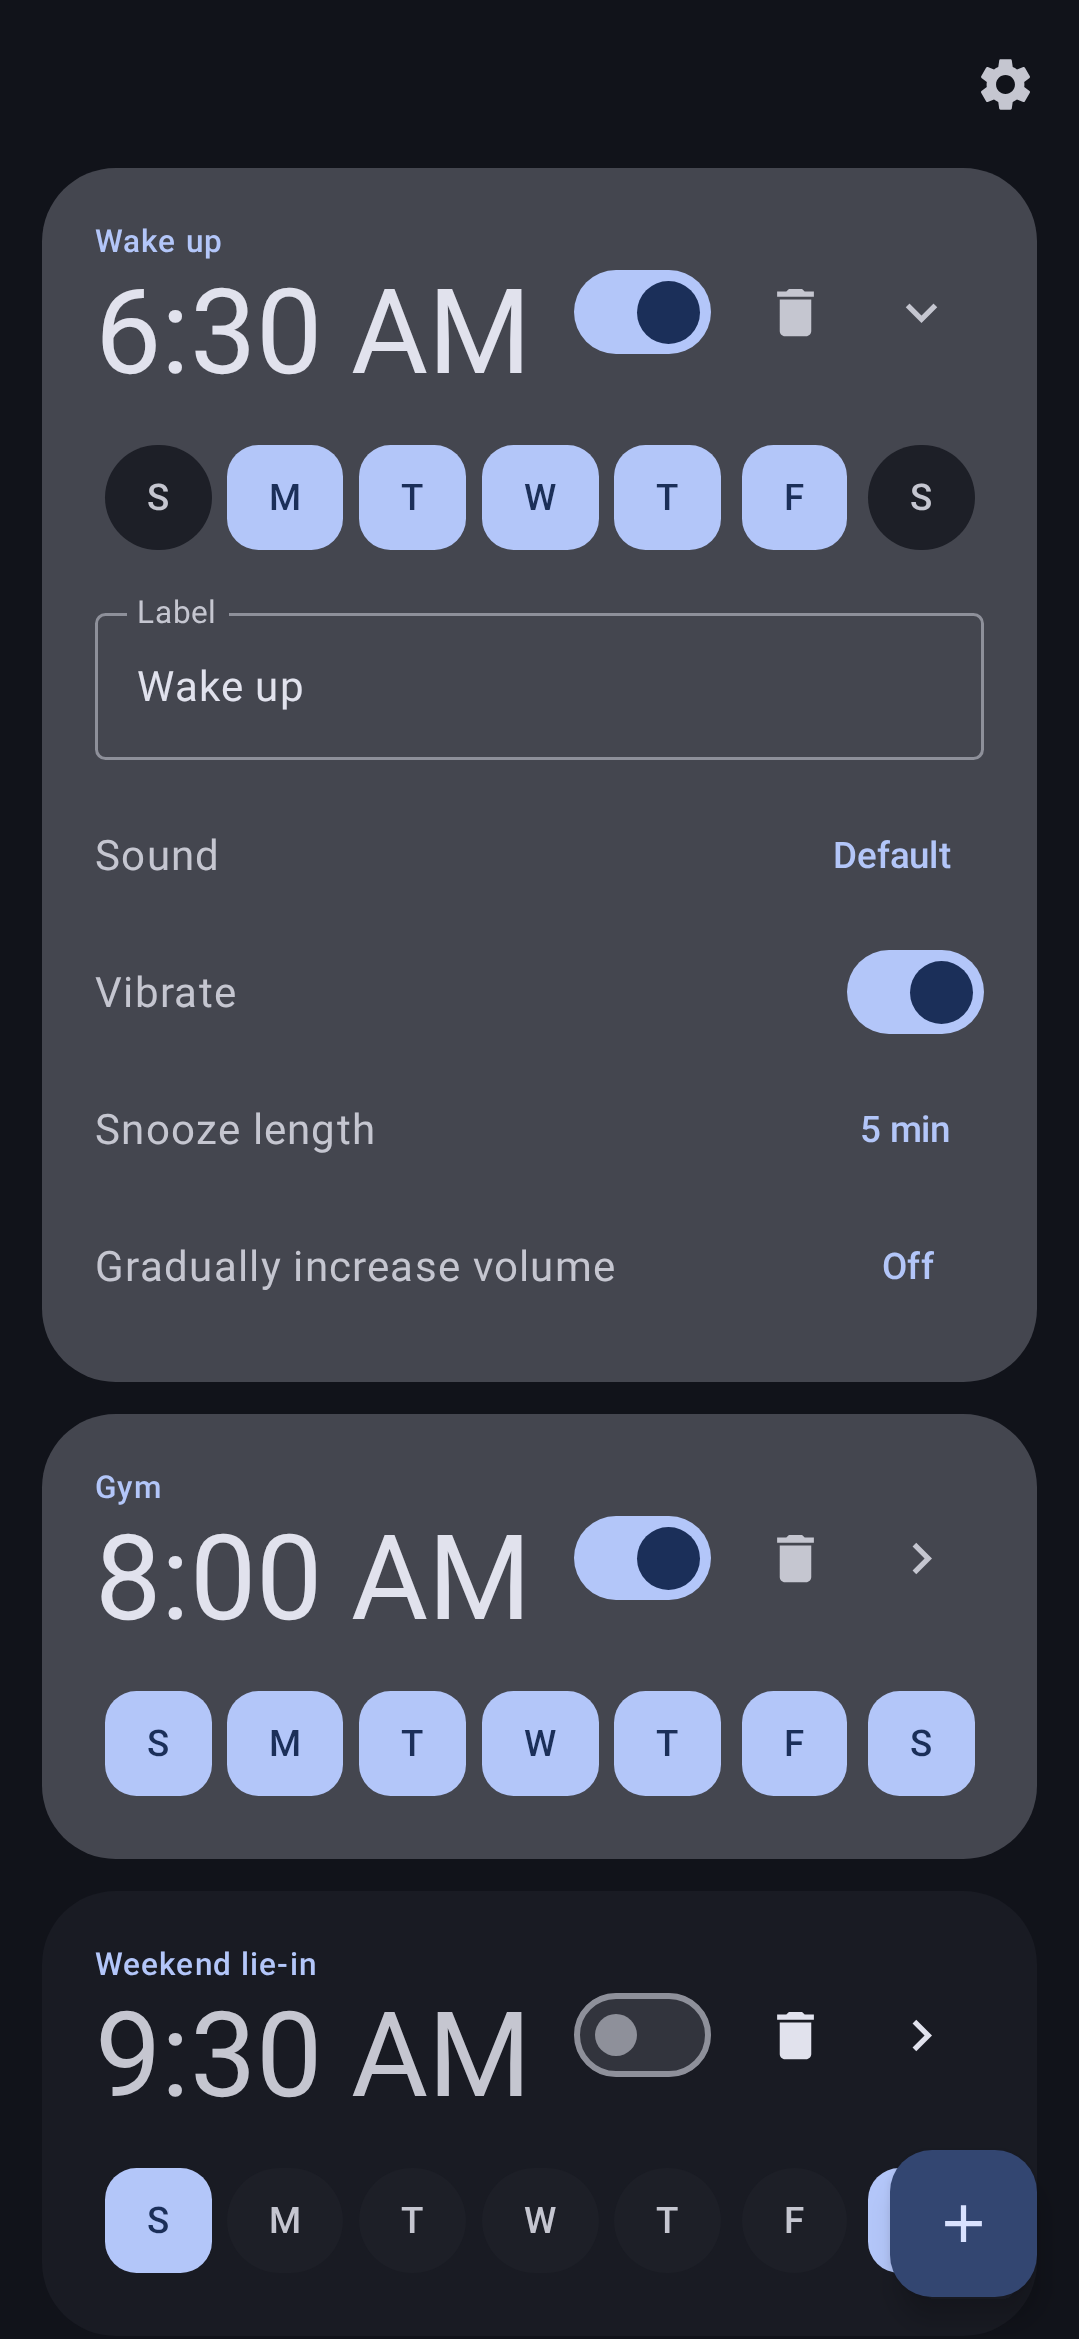
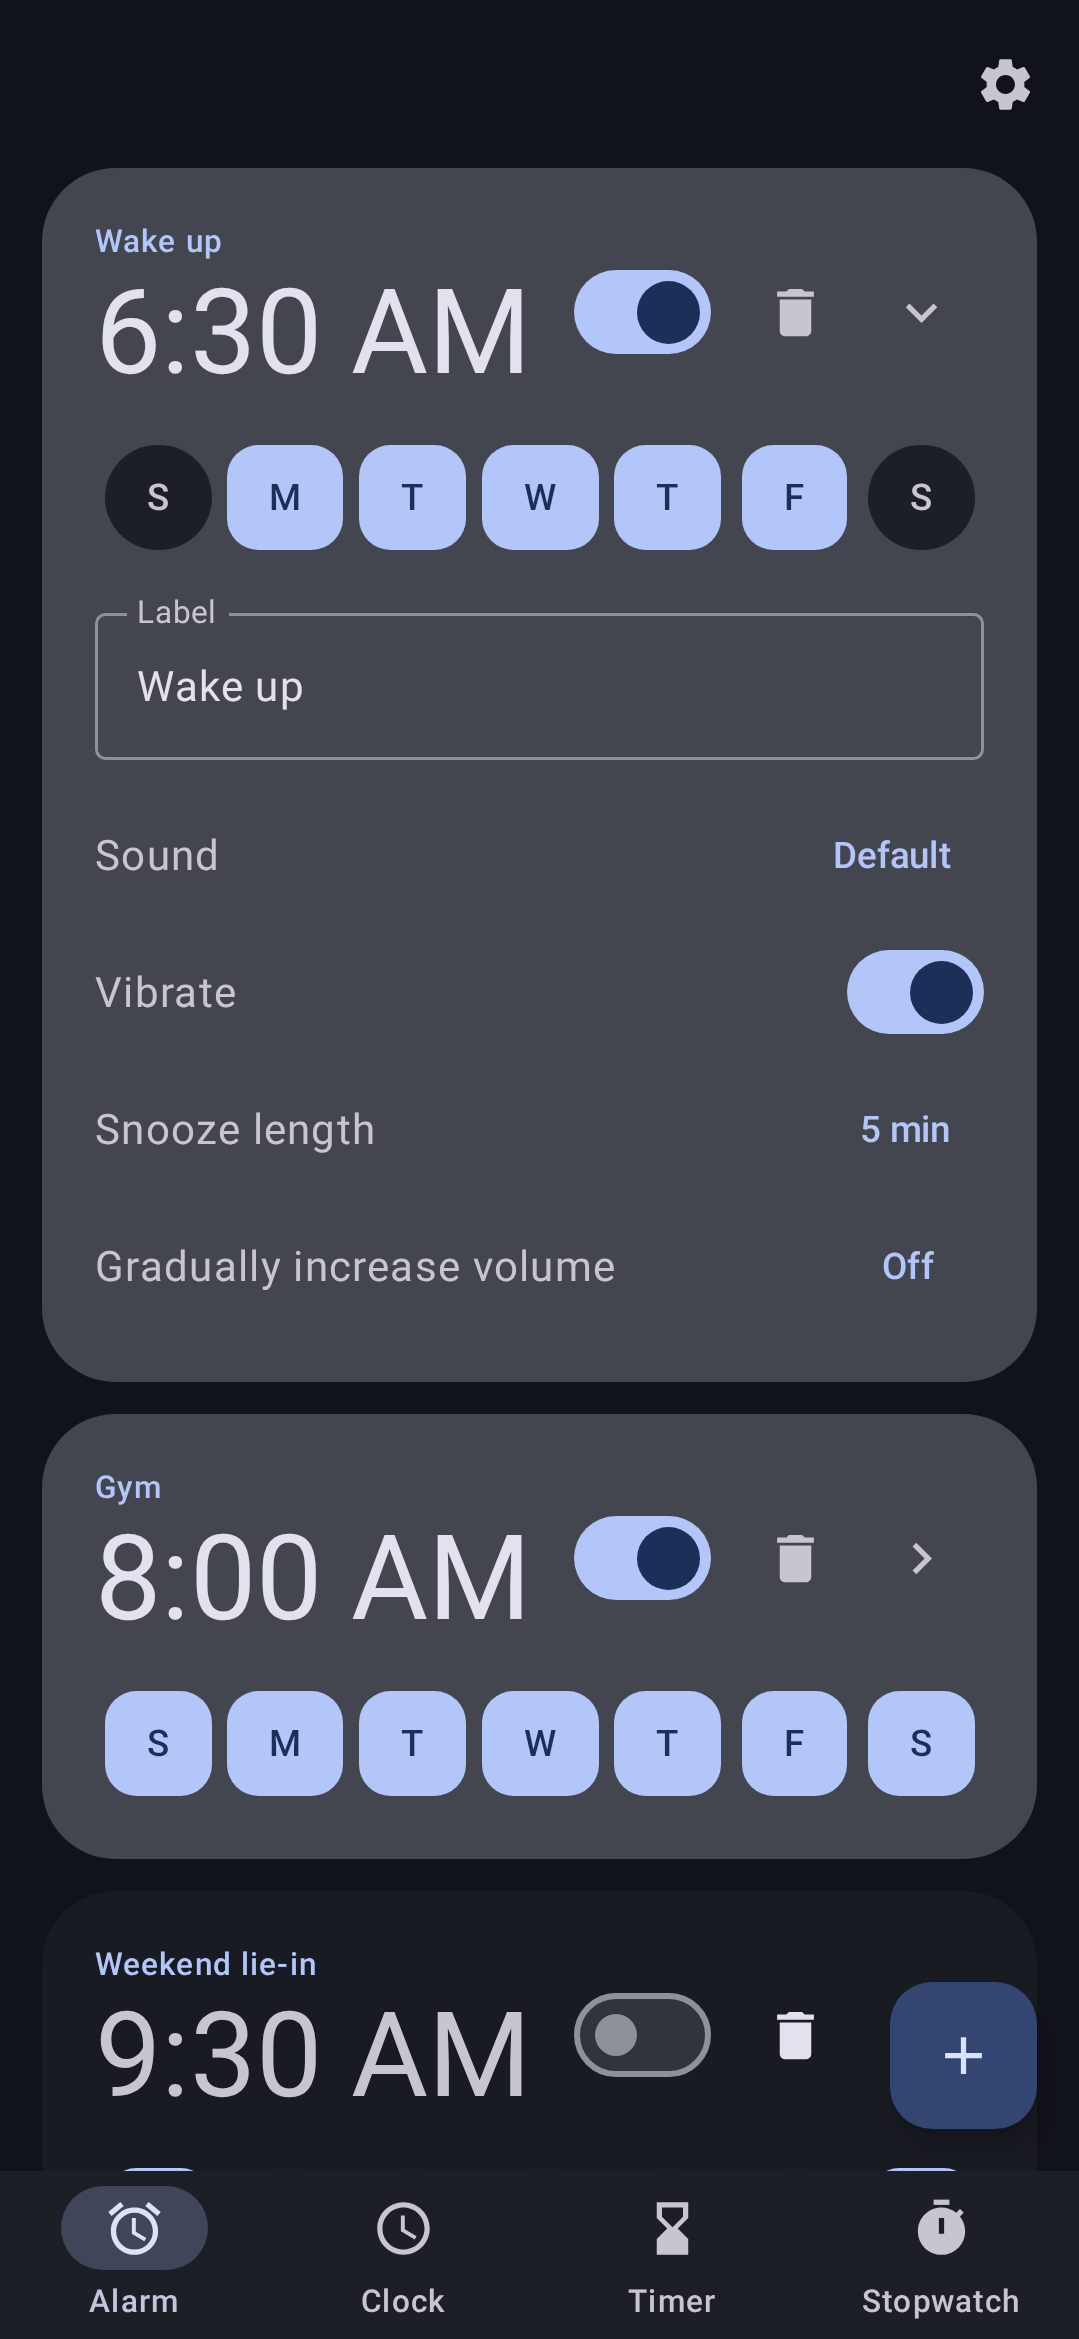
clock: preview tab chrome in store screenshots

diff --git a/clock/src/screenshotTest/kotlin/com/vayunmathur/clock/ui/MetadataPreviews.kt b/clock/src/screenshotTest/kotlin/com/vayunmathur/clock/ui/MetadataPreviews.kt
@@ -1,5 +1,6 @@
 package com.vayunmathur.clock.ui
 
+import androidx.compose.foundation.pager.rememberPagerState
 import androidx.compose.runtime.Composable
 import androidx.compose.runtime.CompositionLocalProvider
 import androidx.compose.runtime.remember
@@ -16,6 +17,13 @@ import com.vayunmathur.clock.platform.TimerActions
 import com.vayunmathur.clock.platform.TimerUiState
 import com.vayunmathur.clock.platform.WorldClock
 import com.vayunmathur.library.ui.DynamicTheme
+import com.vayunmathur.library.ui.IconAccessTime
+import com.vayunmathur.library.ui.IconAlarm
+import com.vayunmathur.library.ui.IconHourglass
+import com.vayunmathur.library.ui.IconTimer
+import com.vayunmathur.library.ui.PagerTab
+import com.vayunmathur.library.ui.TabStyle
+import com.vayunmathur.library.ui.TabbedPagerScaffold
 import com.vayunmathur.library.util.LocalNavResultRegistry
 import com.vayunmathur.library.util.NavResultRegistry
 import com.vayunmathur.library.util.rememberNavBackStack
@@ -50,6 +58,10 @@ private val MORNING = Instant.parse("2026-02-13T17:41:09Z")
  * previews must be members of a class rather than top-level functions, and listing order
  * comes from the function names — `Preview1…`, `Preview2…`. All three failure modes
  * surface as the same unhelpful "did not discover any tests".
+ *
+ * Previews render through [ChromePreview] — the real [TabbedPagerScaffold] with the
+ * app's real tabs — not bare screens, so the bottom bar users see is in the shot.
+ * Only the selected tab is literal.
  */
 class MetadataPreviews {
 
@@ -57,82 +69,119 @@ class MetadataPreviews {
     @Preview(name = "1-alarm", device = PHONE, group = "phone", showSystemUi = true)
     @Composable
     fun Preview1Alarm() {
-        DynamicTheme(darkTheme = true) {
-            // An alarm card receives its time-picker result through ResultEffect, which
-            // reads LocalNavResultRegistry. Outside MainNavigation nothing provides it and
-            // composition fails, so hand it a throwaway one — no preview sends a result.
-            CompositionLocalProvider(LocalNavResultRegistry provides remember { NavResultRegistry() }) {
-                AlarmScreen(
-                    backStack = rememberNavBackStack<Route>(Route.Alarm),
-                    state = AlarmUiState(
-                        alarms = listOf(
-                            Alarm(time = LocalTime(6, 30), name = "Wake up", enabled = true, days = WEEKDAYS, id = 1),
-                            Alarm(time = LocalTime(8, 0), name = "Gym", enabled = true, days = EVERY_DAY, id = 2),
-                            Alarm(time = LocalTime(9, 30), name = "Weekend lie-in", enabled = false, days = WEEKEND, id = 3),
-                        ),
-                    ),
-                    actions = AlarmActions.Noop,
-                    initialExpandedAlarmId = 1L,
-                )
-            }
-        }
+        ChromePreview(selectedTab = 0)
     }
 
     @PreviewTest
     @Preview(name = "2-clock", device = PHONE, group = "phone", showSystemUi = true)
     @Composable
     fun Preview2Clock() {
-        DynamicTheme(darkTheme = true) {
-            ClockScreen(
-                backStack = rememberNavBackStack<Route>(Route.Clock),
-                state = ClockUiState(
-                    now = { MORNING },
-                    zone = TimeZone.of("America/Los_Angeles"),
-                    worldClocks = listOf(
-                        WorldClock("London", TimeZone.of("Europe/London")),
-                        WorldClock("Paris", TimeZone.of("Europe/Paris")),
-                        WorldClock("Tokyo", TimeZone.of("Asia/Tokyo")),
-                        WorldClock("Sydney", TimeZone.of("Australia/Sydney")),
-                    ),
-                ),
-            )
-        }
+        ChromePreview(selectedTab = 1)
     }
 
     @PreviewTest
     @Preview(name = "3-timer", device = PHONE, group = "phone", showSystemUi = true)
     @Composable
     fun Preview3Timer() {
-        DynamicTheme(darkTheme = true) {
-            TimerScreen(
-                // No timers yet, which is what puts the keypad up; "1000" is the digits
-                // for a ten-minute timer, mid-entry.
-                state = TimerUiState(now = { MORNING }),
-                actions = TimerActions.Noop,
-                initialKeypadInput = "1000",
-            )
-        }
+        ChromePreview(selectedTab = 2)
     }
 
     @PreviewTest
     @Preview(name = "4-stopwatch", device = PHONE, group = "phone", showSystemUi = true)
     @Composable
     fun Preview4Stopwatch() {
-        DynamicTheme(darkTheme = true) {
-            StopwatchScreen(
-                state = StopwatchUiState(
-                    isRunning = true,
-                    countingTime = 3.minutes + 42.seconds + 810.milliseconds,
-                    // Cumulative, oldest first — the screen derives the splits, and colours
-                    // the fastest green and the slowest red.
-                    lapTimes = listOf(
-                        1.minutes + 12.seconds + 350.milliseconds,
-                        2.minutes + 28.seconds + 900.milliseconds,
-                        3.minutes + 30.seconds + 120.milliseconds,
-                    ),
+        ChromePreview(selectedTab = 3)
+    }
+}
+
+@Composable
+private fun AlarmContent() {
+    // An alarm card receives its time-picker result through ResultEffect, which
+    // reads LocalNavResultRegistry. Outside MainNavigation nothing provides it and
+    // composition fails, so hand it a throwaway one — no preview sends a result.
+    CompositionLocalProvider(LocalNavResultRegistry provides remember { NavResultRegistry() }) {
+        AlarmScreen(
+            backStack = rememberNavBackStack<Route>(Route.Alarm),
+            state = AlarmUiState(
+                alarms = listOf(
+                    Alarm(time = LocalTime(6, 30), name = "Wake up", enabled = true, days = WEEKDAYS, id = 1),
+                    Alarm(time = LocalTime(8, 0), name = "Gym", enabled = true, days = EVERY_DAY, id = 2),
+                    Alarm(time = LocalTime(9, 30), name = "Weekend lie-in", enabled = false, days = WEEKEND, id = 3),
                 ),
-                actions = StopwatchActions.Noop,
-            )
-        }
+            ),
+            actions = AlarmActions.Noop,
+            initialExpandedAlarmId = 1L,
+        )
+    }
+}
+
+@Composable
+private fun ClockContent() {
+    ClockScreen(
+        backStack = rememberNavBackStack<Route>(Route.Clock),
+        state = ClockUiState(
+            now = { MORNING },
+            zone = TimeZone.of("America/Los_Angeles"),
+            worldClocks = listOf(
+                WorldClock("London", TimeZone.of("Europe/London")),
+                WorldClock("Paris", TimeZone.of("Europe/Paris")),
+                WorldClock("Tokyo", TimeZone.of("Asia/Tokyo")),
+                WorldClock("Sydney", TimeZone.of("Australia/Sydney")),
+            ),
+        ),
+    )
+}
+
+@Composable
+private fun TimerContent() {
+    TimerScreen(
+        // No timers yet, which is what puts the keypad up; "1000" is the digits
+        // for a ten-minute timer, mid-entry.
+        state = TimerUiState(now = { MORNING }),
+        actions = TimerActions.Noop,
+        initialKeypadInput = "1000",
+    )
+}
+
+@Composable
+private fun StopwatchContent() {
+    StopwatchScreen(
+        state = StopwatchUiState(
+            isRunning = true,
+            countingTime = 3.minutes + 42.seconds + 810.milliseconds,
+            // Cumulative, oldest first — the screen derives the splits, and colours
+            // the fastest green and the slowest red.
+            lapTimes = listOf(
+                1.minutes + 12.seconds + 350.milliseconds,
+                2.minutes + 28.seconds + 900.milliseconds,
+                3.minutes + 30.seconds + 120.milliseconds,
+            ),
+        ),
+        actions = StopwatchActions.Noop,
+    )
+}
+
+/**
+ * The app's real tab chrome around preview screen content: the same
+ * [TabbedPagerScaffold] in [TabStyle.BottomNav] that `ClockTabs` uses, with the
+ * same four tabs in the same order — the pager starts on [selectedTab], so the
+ * bar highlights the shown screen. Labels/icons are the app's own.
+ */
+@Composable
+private fun ChromePreview(selectedTab: Int) {
+    DynamicTheme(darkTheme = true) {
+        // TabbedPagerScaffold hosts a HorizontalPager (no NavDisplay), so no
+        // dispatcher owner is needed — unlike MainNavigation-based chrome.
+        val tabs = listOf(
+            PagerTab("Alarm", { IconAlarm() }) { AlarmContent() },
+            PagerTab("Clock", { IconAccessTime() }) { ClockContent() },
+            PagerTab("Timer", { IconHourglass() }) { TimerContent() },
+            PagerTab("Stopwatch", { IconTimer() }) { StopwatchContent() },
+        )
+        TabbedPagerScaffold(
+            tabs = tabs,
+            pagerState = rememberPagerState(initialPage = selectedTab, pageCount = { tabs.size }),
+            tabStyle = TabStyle.BottomNav,
+        )
     }
 }
